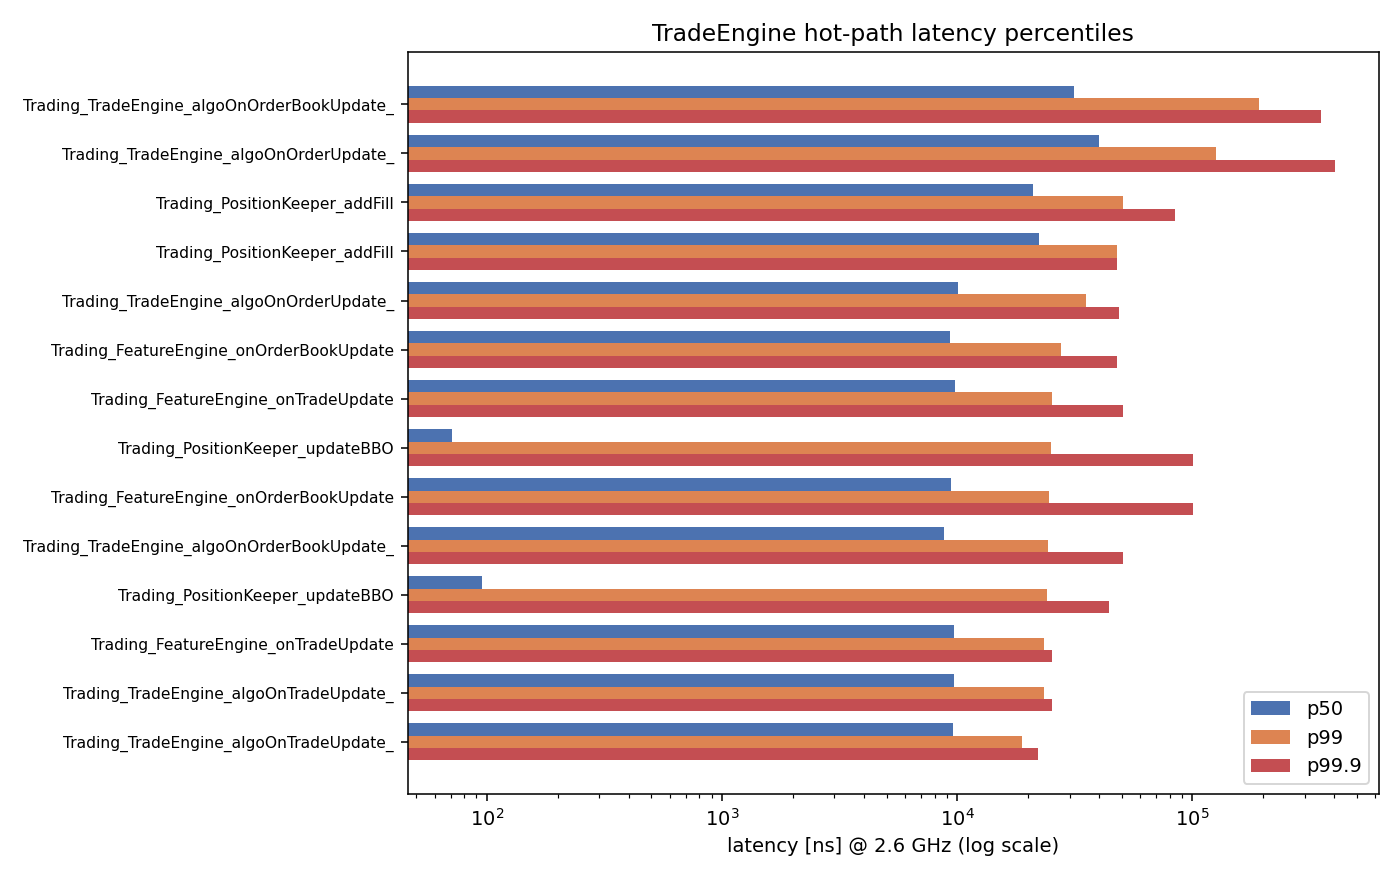
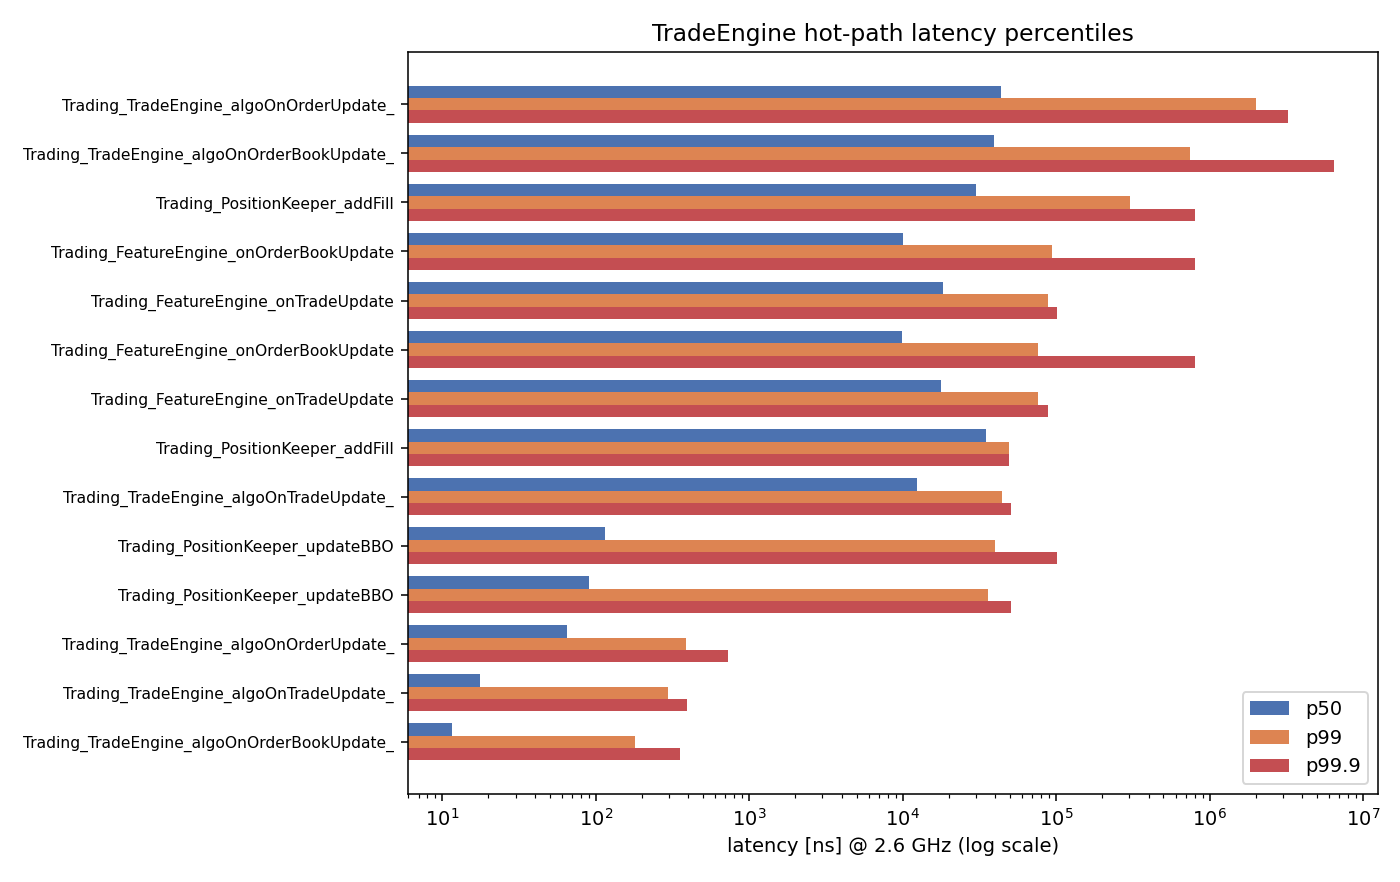
day4: replace std::function algo dispatch with direct pointer dispatch
TradeEngine::algoOn{OrderBook,Trade,Order}Update_ used to be three
std::function<...> members that MarketMaker and LiquidityTaker overwrote
with [this]-capturing lambdas in their constructors. Each lambda lived in
heap-allocated state inside the std::function, and each dispatch site paid
the indirect call plus a possible cache miss.

Replaced with three inline dispatch helpers (dispatchOn{OrderBook,Trade,Order}
Update) on TradeEngine itself that branch on the existing mm_algo_ /
taker_algo_ pointers and call the strategy method directly. The branch is
fully predictable (the chosen algo is fixed at construction) and the call
is direct so the optimizer inlines through it.

Wins:
- zero std::function<void(...)> symbols in trading_main / backtest_main
  (nm | grep -c std::function<void → 0, was 6+)
- no per-construction heap allocation for the three lambda objects
- one fewer #include <functional> in the trading TU
- defaultAlgo{OnOrderBook,OnTrade,OnOrder}Update dead code removed

The end-to-end latency delta on a 30 s RANDOM + MAKER demo is in the noise
because the algo callback itself does ~30 µs of work (AS + OFI + adaptive
clip + OrderManager dispatch), so the ~5-15 ns std::function savings are
<0.05% of the call. The architectural improvement is what matters here —
the binary no longer carries a hot-path indirection layer.

Files touched:
- trading/strategy/trade_engine.h: drop <functional>; remove 3 std::function
[…]

diff --git a/trading/strategy/trade_engine.cpp b/trading/strategy/trade_engine.cpp
@@ -23,16 +23,9 @@ namespace Trading {
       ticker_order_book_[i]->setTradeEngine(this);
     }
 
-    algoOnOrderBookUpdate_ = [this](auto ticker_id, auto price,
-                                     auto side, auto book) {
-      defaultAlgoOnOrderBookUpdate(ticker_id, price, side, book);
-    };
-    algoOnTradeUpdate_ = [this](auto market_update, auto book) {
-      defaultAlgoOnTradeUpdate(market_update, book);
-    };
-    algoOnOrderUpdate_ = [this](auto client_response) {
-      defaultAlgoOnOrderUpdate(client_response);
-    };
+    // Day 4 — no more std::function lambda assignments. mm_algo_/taker_algo_
+    // stay null until one of the branches below sets them. If neither is set
+    // (e.g. RANDOM mode), the dispatch helpers in trade_engine.h are no-ops.
 
     // Push per-ticker hysteresis tolerances into OrderManager before any algo
     // construction so the algo callbacks see the right requote behaviour.
@@ -174,7 +167,7 @@ namespace Trading {
     END_MEASURE_HIST(Trading_FeatureEngine_onOrderBookUpdate, logger_, hist_fe_obUpdate_);
 
     START_MEASURE(Trading_TradeEngine_algoOnOrderBookUpdate_);
-    algoOnOrderBookUpdate_(ticker_id, price, side, book);
+    dispatchOnOrderBookUpdate(ticker_id, price, side, book);
     END_MEASURE_HIST(Trading_TradeEngine_algoOnOrderBookUpdate_, logger_, hist_algo_obUpdate_);
   }
 
@@ -189,7 +182,7 @@ namespace Trading {
     END_MEASURE_HIST(Trading_FeatureEngine_onTradeUpdate, logger_, hist_fe_trUpdate_);
 
     START_MEASURE(Trading_TradeEngine_algoOnTradeUpdate_);
-    algoOnTradeUpdate_(market_update, book);
+    dispatchOnTradeUpdate(market_update, book);
     END_MEASURE_HIST(Trading_TradeEngine_algoOnTradeUpdate_, logger_, hist_algo_trUpdate_);
   }
 
@@ -206,34 +199,12 @@ namespace Trading {
     }
 
     START_MEASURE(Trading_TradeEngine_algoOnOrderUpdate_);
-    algoOnOrderUpdate_(client_response);
+    dispatchOnOrderUpdate(client_response);
     END_MEASURE_HIST(Trading_TradeEngine_algoOnOrderUpdate_, logger_, hist_algo_ordUpdate_);
   }
 
-  auto TradeEngine::defaultAlgoOnOrderBookUpdate(TickerId ticker_id, Price price,
-                                                  Side side, MarketOrderBook *)
-      noexcept -> void {
-    logger_.log("%:% %() % ticker:% price:% side:%\n",
-                __FILE__, __LINE__, __FUNCTION__,
-                Common::getCurrentTimeStr(&time_str_),
-                ticker_id, Common::priceToString(price).c_str(),
-                Common::sideToString(side).c_str());
-  }
-
-  auto TradeEngine::defaultAlgoOnTradeUpdate(
-      const Exchange::MEMarketUpdate *market_update, MarketOrderBook *)
-      noexcept -> void {
-    logger_.log("%:% %() % %\n", __FILE__, __LINE__, __FUNCTION__,
-                Common::getCurrentTimeStr(&time_str_),
-                market_update->toString().c_str());
-  }
-
-  auto TradeEngine::defaultAlgoOnOrderUpdate(
-      const Exchange::MEClientResponse *client_response) noexcept -> void {
-    logger_.log("%:% %() % %\n", __FILE__, __LINE__, __FUNCTION__,
-                Common::getCurrentTimeStr(&time_str_),
-                client_response->toString().c_str());
-  }
+  // Day 4 — defaultAlgo* removed. Dispatch now branches on mm_algo_/taker_algo_
+  // directly; the RANDOM case has both null and falls through to a no-op.
 
   // ---------------------------------------------------------------------------
   // Day 1 — dump every per-tag latency histogram to ./latency_<client_id>_<tag>.hgrm

diff --git a/trading/strategy/trade_engine.h b/trading/strategy/trade_engine.h
@@ -1,7 +1,5 @@
 #pragma once
 
-#include <functional>
-
 #include "common/thread_utils.h"
 #include "common/time_utils.h"
 #include "common/lf_queue.h"
@@ -73,13 +71,12 @@ namespace Trading {
     auto volatility() const noexcept { return feature_engine_.getVolatility(); }
     auto ofi()        const noexcept { return feature_engine_.getOFI();         }
 
-    // Public so MarketMaker / LiquidityTaker constructors can overwrite them.
-    std::function<void(TickerId, Price, Side, MarketOrderBook *)>
-        algoOnOrderBookUpdate_;
-    std::function<void(const Exchange::MEMarketUpdate *, MarketOrderBook *)>
-        algoOnTradeUpdate_;
-    std::function<void(const Exchange::MEClientResponse *)>
-        algoOnOrderUpdate_;
+    // Day 4 — std::function<> dispatch dropped. TradeEngine now holds direct
+    // pointers to MarketMaker / LiquidityTaker (see private section below) and
+    // dispatches via a branch on which one is non-null. The branch is fully
+    // predictable (the chosen algo is fixed at construction), and the call is
+    // direct so the compiler inlines through it. No more heap-allocated
+    // lambda objects, no more vtable-style indirection in the hot path.
 
     TradeEngine()                                = delete;
     TradeEngine(const TradeEngine &)             = delete;
@@ -126,11 +123,24 @@ namespace Trading {
     /// Dump every histogram to ./latency_<tag>.hgrm. Called from ~TradeEngine.
     auto dumpLatencyHistograms() const noexcept -> void;
 
-    auto defaultAlgoOnOrderBookUpdate(TickerId ticker_id, Price price,
-                                      Side side, MarketOrderBook *) noexcept -> void;
-    auto defaultAlgoOnTradeUpdate(const Exchange::MEMarketUpdate *market_update,
-                                  MarketOrderBook *) noexcept -> void;
-    auto defaultAlgoOnOrderUpdate(const Exchange::MEClientResponse *client_response)
-        noexcept -> void;
+    // Day 4 — algo dispatch helpers. These get inlined; the if/else is
+    // branch-predictable (taken consistently for the whole session) so the
+    // expected cost is ~1 cycle vs ~5-15 cycles for the std::function call
+    // they replaced, plus we drop a heap allocation.
+    inline auto dispatchOnOrderBookUpdate(TickerId t, Price p, Side s,
+                                          MarketOrderBook *b) noexcept -> void {
+      if (mm_algo_)         mm_algo_->onOrderBookUpdate(t, p, s, b);
+      else if (taker_algo_) taker_algo_->onOrderBookUpdate(t, p, s, b);
+    }
+    inline auto dispatchOnTradeUpdate(const Exchange::MEMarketUpdate *u,
+                                      MarketOrderBook *b) noexcept -> void {
+      if (mm_algo_)         mm_algo_->onTradeUpdate(u, b);
+      else if (taker_algo_) taker_algo_->onTradeUpdate(u, b);
+    }
+    inline auto dispatchOnOrderUpdate(const Exchange::MEClientResponse *r) noexcept -> void {
+      if (mm_algo_)         mm_algo_->onOrderUpdate(r);
+      else if (taker_algo_) taker_algo_->onOrderUpdate(r);
+    }
+
   };
 }

diff --git a/trading/strategy/liquidity_taker.cpp b/trading/strategy/liquidity_taker.cpp
@@ -4,7 +4,7 @@
 namespace Trading {
 
   LiquidityTaker::LiquidityTaker(Common::Logger *logger,
-                                  TradeEngine *trade_engine,
+                                  TradeEngine * /*trade_engine*/,
                                   FeatureEngine *feature_engine,
                                   OrderManager *order_manager,
                                   const TradeEngineCfgHashMap &ticker_cfg)
@@ -12,19 +12,9 @@ namespace Trading {
         order_manager_(order_manager),
         logger_(logger),
         ticker_cfg_(ticker_cfg) {
-
-    trade_engine->algoOnOrderBookUpdate_ =
-        [this](auto ticker_id, auto price, auto side, auto book) {
-          onOrderBookUpdate(ticker_id, price, side, book);
-        };
-    trade_engine->algoOnTradeUpdate_ =
-        [this](auto market_update, auto book) {
-          onTradeUpdate(market_update, book);
-        };
-    trade_engine->algoOnOrderUpdate_ =
-        [this](auto client_response) {
-          onOrderUpdate(client_response);
-        };
+    // Day 4 — algoOn*_ std::function writes removed. TradeEngine now holds the
+    // taker_algo_ pointer to this instance and calls our on*Update methods
+    // directly via inlined dispatch helpers (see trade_engine.h).
   }
 
   auto LiquidityTaker::onTradeUpdate(const Exchange::MEMarketUpdate *market_update,

diff --git a/trading/strategy/market_maker.cpp b/trading/strategy/market_maker.cpp
@@ -7,7 +7,7 @@
 namespace Trading {
 
   MarketMaker::MarketMaker(Common::Logger *logger,
-                           TradeEngine *trade_engine,
+                           TradeEngine * /*trade_engine*/,
                            const FeatureEngine *feature_engine,
                            const PositionKeeper *position_keeper,
                            OrderManager *order_manager,
@@ -18,19 +18,9 @@ namespace Trading {
         logger_(logger),
         ticker_cfg_(ticker_cfg),
         session_start_ns_(Common::getCurrentNanos()) {
-
-    trade_engine->algoOnOrderBookUpdate_ =
-        [this](auto ticker_id, auto price, auto side, auto book) {
-          onOrderBookUpdate(ticker_id, price, side, book);
-        };
-    trade_engine->algoOnTradeUpdate_ =
-        [this](auto market_update, auto book) {
-          onTradeUpdate(market_update, book);
-        };
-    trade_engine->algoOnOrderUpdate_ =
-        [this](auto client_response) {
-          onOrderUpdate(client_response);
-        };
+    // Day 4 — algoOn*_ std::function writes removed. TradeEngine now holds the
+    // mm_algo_ pointer to this instance and calls our on*Update methods directly
+    // via inlined dispatch helpers (see trade_engine.h).
   }
 
   auto MarketMaker::onOrderBookUpdate(TickerId ticker_id, Price price,
